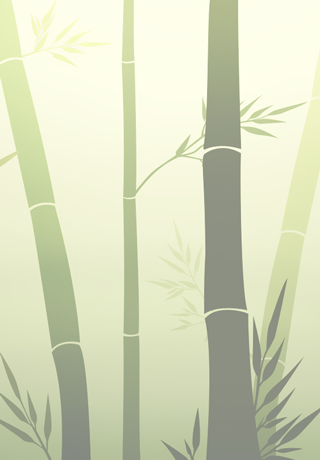
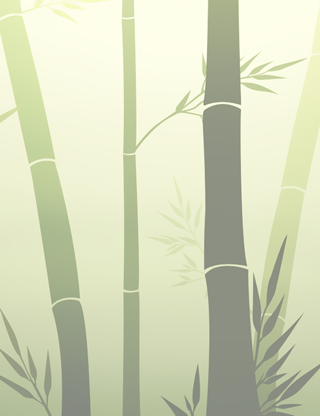
fixed cell sizing bug, background bugs

diff --git a/Kupo/CardTableViewController.m b/Kupo/CardTableViewController.m
@@ -233,7 +233,7 @@
 - (void)tableView:(UITableView *)tableView willDisplayCell:(UITableViewCell *)cell forRowAtIndexPath:(NSIndexPath *)indexPath {
   if ([[cell class] cellType] == PSCellTypePlain) {
     UIView *backgroundView = [[UIView alloc] initWithFrame:cell.bounds];
-    backgroundView.backgroundColor = CELL_COLOR;
+    backgroundView.backgroundColor = CELL_COLOR_ALPHA;
 //    backgroundView.alpha = 0.8;
     cell.backgroundView = backgroundView;
     
@@ -280,7 +280,7 @@
 }
 
 - (void)searchDisplayController:(UISearchDisplayController *)controller didLoadSearchResultsTableView:(UITableView *)tableView {
-  tableView.backgroundColor = TABLE_BG_COLOR;
+  tableView.backgroundColor = [UIColor colorWithPatternImage:[UIImage imageNamed:@"bamboo_bg_alpha.png"]];
   tableView.separatorColor = SEPARATOR_COLOR;
   tableView.separatorStyle = UITableViewCellSeparatorStyleSingleLine;
 }

diff --git a/Kupo/KupoCell.m b/Kupo/KupoCell.m
@@ -50,9 +50,6 @@ static UIImage *_quoteImage = nil;
   CGRect contentRect = CGRectMake(left, top, width, INT_MAX);
   CGSize drawnSize = CGSizeZero;
   
-  CGContextRef context = UIGraphicsGetCurrentContext();
-  CGContextClearRect(context, contentRect);
-  
   if (self.highlighted) {
     [CELL_VERY_LIGHT_BLUE_COLOR set];
   } else {
@@ -167,9 +164,9 @@ static UIImage *_quoteImage = nil;
   NSString *status = nil;
   if ([kupo.kupoType integerValue] == 0) {
     if (kupo.tagged) {
-      status = [NSString stringWithFormat:@"Checked in via Facebook with %@", kupo.tagged];
+      status = [NSString stringWithFormat:@"Checked in via %@ with %@", kupo.appName, kupo.tagged];
     } else {
-      status = [NSString stringWithFormat:@"Checked in via Facebook"];
+      status = [NSString stringWithFormat:@"Checked in via %@", kupo.appName];
     }
   }
   

diff --git a/Kupo/PlaceCell.m b/Kupo/PlaceCell.m
@@ -48,9 +48,6 @@
   CGRect contentRect = CGRectMake(left, top, width, INT_MAX);
   CGSize drawnSize = CGSizeZero;
   
-  CGContextRef context = UIGraphicsGetCurrentContext();
-  CGContextClearRect(context, contentRect);
-  
   if (self.highlighted) {
     [CELL_VERY_LIGHT_BLUE_COLOR set];
   } else {
@@ -161,8 +158,8 @@
     CGContextRef context = UIGraphicsGetCurrentContext();
     CGContextFillRect(context, CGRectMake(0, 0, UNREAD_WIDTH, top));
   } else {
-    CGContextRef context = UIGraphicsGetCurrentContext();
-    CGContextClearRect(context, CGRectMake(0, 0, UNREAD_WIDTH, top));
+//    CGContextRef context = UIGraphicsGetCurrentContext();
+//    CGContextClearRect(context, CGRectMake(0, 0, UNREAD_WIDTH, top));
   }
   
 //  NSLog(@"place for cell height: %@", _place);

diff --git a/Kupo/PSNullView.m b/Kupo/PSNullView.m
@@ -16,8 +16,8 @@ static UIImage *_loadingImage = nil;
 @synthesize state = _state;
 
 + (void)initialize {
-  _emptyImage = [[UIImage imageNamed:@"empty.png"] retain];
-  _loadingImage = [[UIImage imageNamed:@"loading.png"] retain];
+  _emptyImage = [[UIImage imageNamed:@"bamboo_bg.png"] retain];
+  _loadingImage = [[UIImage imageNamed:@"bamboo_bg_alpha.png"] retain];
 }
 
 - (id)initWithFrame:(CGRect)frame {

diff --git a/Kupo/Constants.h b/Kupo/Constants.h
@@ -62,7 +62,8 @@
 #define CELL_VERY_LIGHT_BLUE_COLOR FB_COLOR_VERY_LIGHT_BLUE
 
 #define CELL_UNREAD_COLOR KUPO_BLUE_COLOR
-#define CELL_COLOR RGBACOLOR(235,235,235,0.8)
+#define CELL_COLOR_ALPHA RGBACOLOR(235,235,235,0.8)
+#define CELL_COLOR RGBCOLOR(235,235,235)
 #define CELL_SELECTED_COLOR KUPO_BLUE_COLOR
 
 #define TABLE_BG_COLOR_ALPHA RGBACOLOR(235,235,235,0.8)
